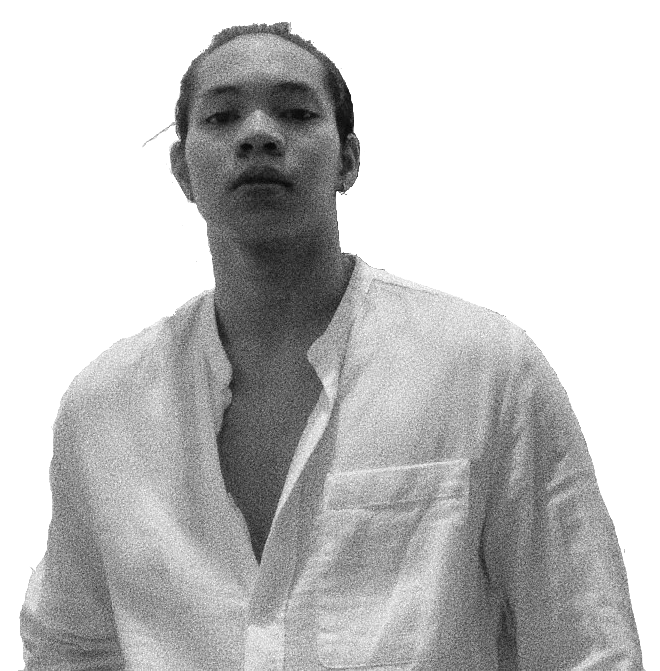
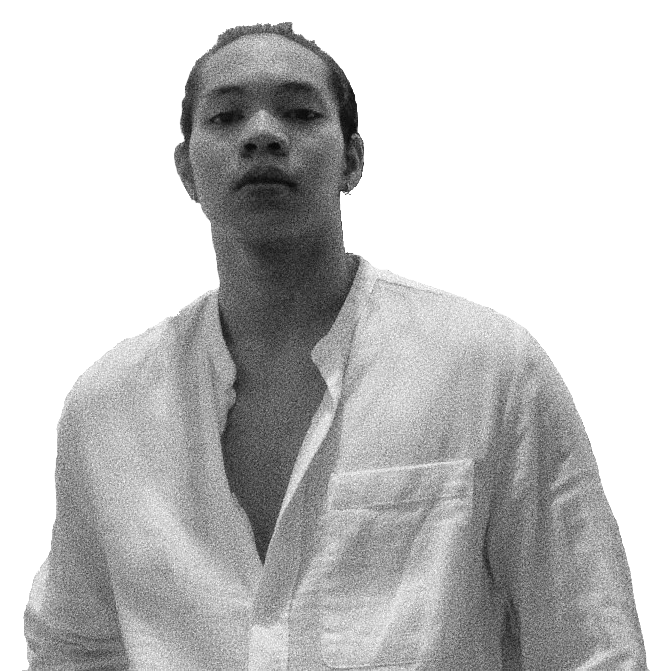
Hero image fix

Changed region(s): [[0.0303, 0.0298, 1.0, 1.0]]

diff --git a/src/components/icons/IconSvelte.svelte b/src/components/icons/IconSvelte.svelte
@@ -1,0 +1,10 @@
+<svg
+	xmlns="http://www.w3.org/2000/svg"
+	stroke-width="2"
+	viewBox="0 0 48 48"
+	fill="currentColor"
+	stroke="currentColor"
+	stroke-linecap="round"
+	stroke-linejoin="round"
+	><path fill="#ef4823" d="M40.311,8.7C36.352,2.998,27.6,0.647,21.934,4.243l-9.987,6.392	c-2.724,1.707-4.612,4.503-5.157,7.663c-0.472,2.651,0.991,4.848,2.262,7.208c-0.872,1.307-2.516,3.287-2.77,4.813	c-0.581,3.232,0.182,6.573,2.07,9.225c3.995,5.702,11.914,7.741,17.579,4.146l9.913-6.724c2.724-1.707,4.612-4.503,5.157-7.663	c0.472-2.651,0.073-5.375-1.198-7.736c0.872-1.307,1.453-2.76,1.707-4.285C42.127,14.012,42.235,11.351,40.311,8.7"/><path fill="#010101" d="M19.64,45.946c-1.064,0-2.149-0.13-3.234-0.393c-3.425-0.831-6.42-2.871-8.433-5.744	c-1.962-2.754-2.745-6.244-2.147-9.572c0.216-1.297,1.316-2.837,2.201-4.074c0.172-0.24,0.336-0.47,0.484-0.684	c-0.101-0.185-0.203-0.37-0.304-0.553c-1.14-2.065-2.319-4.2-1.872-6.709c0.566-3.284,2.523-6.192,5.367-7.974l9.984-6.39	c5.748-3.648,14.804-1.465,19.003,4.579c1.957,2.698,1.94,5.418,1.277,8.93c-0.251,1.501-0.798,2.922-1.627,4.23	c1.198,2.357,1.596,5.112,1.119,7.792c-0.566,3.281-2.519,6.187-5.36,7.969l-9.906,6.72c-0.004,0.003-0.008,0.005-0.012,0.008	C24.236,45.314,21.987,45.946,19.64,45.946z M28.218,2.986c-2.167,0-4.269,0.527-6.034,1.647l-9.986,6.391	c-2.625,1.645-4.429,4.324-4.951,7.352c-0.39,2.189,0.66,4.09,1.77,6.102c0.148,0.268,0.297,0.537,0.443,0.809	c0.081,0.151,0.072,0.334-0.022,0.476c-0.192,0.288-0.418,0.604-0.657,0.939c-0.829,1.159-1.86,2.602-2.042,3.693	c-0.556,3.09,0.17,6.325,1.991,8.88c3.953,5.642,11.553,7.446,16.948,4.027l9.907-6.72c0.005-0.003,0.009-0.006,0.014-0.009	c2.622-1.643,4.425-4.322,4.947-7.349c0.458-2.57,0.049-5.211-1.15-7.438c-0.081-0.151-0.072-0.334,0.022-0.476	c0.842-1.263,1.392-2.644,1.636-4.105c0.001-0.003,0.001-0.007,0.002-0.01c0.634-3.359,0.655-5.781-1.119-8.223	c-0.002-0.003-0.004-0.005-0.006-0.008C37.295,5.166,32.624,2.986,28.218,2.986z"/><path fill="#d6e5e5" d="M20.974,40.088c-3.232,0.835-6.61-0.436-8.498-3.16c-1.162-1.598-1.598-3.595-1.271-5.557	c0.073-0.327,0.145-0.617,0.218-0.944l0.256-0.938l0.508,0.363c1.198,0.872,2.432,1.882,3.848,2.318l0.363,0.109l-0.036,0.363	c-0.036,0.508,0.109,1.053,0.399,1.489c0.581,0.835,2.086,1.3,3.067,1.046c0.218-0.073,0.436-0.145,0.617-0.254l10.19-6.182	c0.508-0.327,0.567-1.206,0.676-1.787c0.109-0.581-0.036-1.198-0.363-1.671c-0.581-0.835-1.598-1.198-2.579-0.944	c-0.218,0.073-0.895,0.313-1.077,0.422l-3.813,2.433c-0.617,0.399-1.307,0.69-2.034,0.872c-3.232,0.835-6.61-0.436-8.498-3.16	c-1.126-1.598-1.531-4.31-1.168-6.271c0.327-1.889,1.489-3.595,3.123-4.612l9.92-5.641c0.617-0.399,1.307-0.69,2.034-0.908	c3.232-0.835,6.61,0.436,8.498,3.16c1.162,1.598,1.598,3.595,1.271,5.557c-0.073,0.327-0.145,0.617-0.254,0.944l-0.034,0.107	c-0.073,0.234-0.353,0.327-0.552,0.185l-0.105-0.075c-1.198-0.872-2.506-1.525-3.922-1.961l-0.363-0.109l0.036-0.363	c0.036-0.508-0.109-1.053-0.399-1.489c-0.581-0.835-1.688-1.122-2.668-0.868c-0.218,0.073-0.436,0.145-0.617,0.254l-9.861,6.279	c-0.508,0.327-0.835,0.799-0.944,1.38c-0.109,0.581,0.036,1.198,0.363,1.671c0.581,0.835,1.598,1.198,2.579,0.944	c0.218-0.073,0.436-0.145,0.617-0.254l3.813-2.433c0.617-0.399,1.307-0.69,2.034-0.908c3.232-0.835,6.986-0.553,8.875,2.171	c1.162,1.598,1.929,4.257,1.602,6.218c-0.327,1.889-1.489,3.595-3.123,4.612L23.007,39.18C22.39,39.58,21.7,39.87,20.974,40.088"/><path fill="#010101" d="M18.981,40.806c-0.991,0-1.977-0.177-2.921-0.529c-1.609-0.6-2.979-1.665-3.961-3.08	c-1.224-1.685-1.704-3.781-1.35-5.901c0.001-0.008,0.003-0.016,0.005-0.024c0.037-0.165,0.073-0.322,0.11-0.478	c0.036-0.152,0.072-0.305,0.108-0.467c0.002-0.007,0.003-0.014,0.005-0.021l0.256-0.938c0.04-0.146,0.149-0.263,0.291-0.314	c0.143-0.051,0.301-0.029,0.424,0.059l0.508,0.363c0.17,0.123,0.336,0.247,0.505,0.371c1.015,0.752,2.065,1.529,3.21,1.881	l0.36,0.108c0.212,0.064,0.35,0.269,0.328,0.489l-0.036,0.356c-0.027,0.403,0.093,0.848,0.323,1.193	c0.439,0.63,1.724,1.064,2.551,0.858c0.194-0.065,0.376-0.126,0.51-0.207l4.798-3.358l5.384-2.818	c0.253-0.168,0.348-0.754,0.417-1.182c0.017-0.105,0.033-0.205,0.051-0.298c0.084-0.446-0.024-0.94-0.289-1.322	c-0.462-0.664-1.272-0.963-2.067-0.763c-0.344,0.115-0.855,0.309-0.965,0.372l-3.807,2.429c-0.647,0.419-1.378,0.732-2.17,0.93	c-1.672,0.432-3.412,0.342-5.027-0.261c-1.611-0.601-2.602-1.841-3.584-3.258c-1.282-1.82-1.976-4.535-1.622-6.446	c0.345-1.995,1.592-3.837,3.334-4.921c0.005-0.003,0.01-0.006,0.016-0.009l9.909-5.635c0.612-0.394,1.313-0.707,2.141-0.955	c0.006-0.002,0.011-0.003,0.017-0.005c1.675-0.433,3.415-0.343,5.031,0.26c1.609,0.6,2.979,1.665,3.961,3.08	c1.224,1.685,1.704,3.781,1.35,5.901c-0.001,0.008-0.003,0.016-0.005,0.024c-0.066,0.295-0.144,0.62-0.267,0.99l-0.031,0.099	c-0.078,0.251-0.274,0.451-0.523,0.534c-0.249,0.084-0.526,0.042-0.74-0.11l-0.105-0.075c-1.155-0.84-2.428-1.477-3.789-1.895	l-0.36-0.108c-0.212-0.064-0.35-0.269-0.328-0.489l0.036-0.356c0.028-0.409-0.09-0.843-0.323-1.193	c-0.432-0.621-1.298-0.897-2.152-0.681c-0.192,0.064-0.372,0.125-0.505,0.204l-5.253,3.042l-4.603,3.233	c-0.404,0.26-0.653,0.622-0.738,1.075c-0.084,0.446,0.024,0.94,0.289,1.322c0.462,0.664,1.273,0.964,2.067,0.763	c0.191-0.064,0.371-0.125,0.505-0.204l3.703-2.077c0.612-0.396,1.316-0.711,2.15-0.961c0.006-0.002-0.006,0.001,0,0	c1.814-0.469,3.61-0.562,5.162-0.26c1.824,0.354,3.284,1.256,4.223,2.606c1.308,1.801,2.119,4.207,1.786,6.21	c-0.347,2.004-1.594,3.845-3.335,4.929l-10.694,6.683c-0.608,0.394-1.312,0.709-2.146,0.959c-0.006,0.002-0.011,0.003-0.017,0.005	C20.394,40.716,19.686,40.806,18.981,40.806z M11.66,31.46c-0.309,1.871,0.114,3.716,1.191,5.196	c0.002,0.003,0.004,0.006,0.006,0.008c1.772,2.556,4.983,3.751,7.993,2.977c0.745-0.224,1.369-0.503,1.907-0.851l10.701-6.687	c1.522-0.947,2.611-2.554,2.913-4.299c0.292-1.75-0.466-3.922-1.625-5.515c-0.002-0.003-0.004-0.006-0.006-0.009	c-2.26-3.26-6.966-2.35-8.37-1.988c-0.745,0.224-1.368,0.502-1.907,0.851l-3.711,2.083c-0.004,0.002-0.007,0.005-0.011,0.007	c-0.225,0.135-0.471,0.217-0.709,0.296c-0.01,0.003-0.02,0.006-0.03,0.009c-1.178,0.305-2.385-0.137-3.075-1.128	c-0.409-0.59-0.568-1.326-0.438-2.02c0.132-0.703,0.529-1.286,1.149-1.684l4.613-3.24l5.25-3.04c0.003-0.002,0.007-0.004,0.01-0.006	c0.225-0.135,0.471-0.217,0.709-0.296c0.01-0.003,0.021-0.006,0.031-0.009c1.233-0.32,2.504,0.103,3.164,1.052	c0.351,0.526,0.524,1.173,0.481,1.783c1.455,0.448,2.815,1.127,4.045,2.019c0.1-0.304,0.165-0.567,0.232-0.866	c0.309-1.871-0.114-3.716-1.191-5.196c-0.002-0.003-0.004-0.006-0.006-0.009c-1.772-2.556-4.983-3.751-7.994-2.977	c-0.745,0.224-1.369,0.502-1.907,0.851c-0.007,0.005-0.015,0.009-0.023,0.014l-9.912,5.636c-1.517,0.947-2.603,2.552-2.904,4.294	c-0.366,1.979,0.482,4.351,1.47,5.752c1.776,2.561,4.611,3.93,7.624,3.152c0.697-0.174,1.334-0.447,1.898-0.812l3.816-2.435	c0.004-0.002,0.007-0.005,0.011-0.007c0.273-0.164,1.16-0.461,1.169-0.464c0.01-0.003,0.02-0.006,0.03-0.009	c1.178-0.305,2.385,0.137,3.075,1.128c0.409,0.59,0.568,1.326,0.438,2.02c-0.016,0.086-0.031,0.179-0.047,0.275	c-0.103,0.636-0.23,1.427-0.834,1.816c-0.003,0.002-0.007,0.004-0.01,0.006l-5.382,2.96l-4.809,3.222	c-0.227,0.136-0.472,0.218-0.71,0.297c-0.01,0.003-0.021,0.007-0.032,0.009c-1.201,0.311-2.899-0.275-3.563-1.229	c-0.351-0.526-0.524-1.173-0.481-1.783c-1.299-0.4-2.413-1.225-3.49-2.022c-0.154-0.114-0.307-0.227-0.46-0.339l-0.078,0.286	c-0.036,0.161-0.072,0.314-0.108,0.467C11.729,31.155,11.695,31.303,11.66,31.46z"/></svg
+>

diff --git a/src/components/footer/Footer.svelte b/src/components/footer/Footer.svelte
@@ -1,14 +1,83 @@
 <script lang="ts">
+	import IconFb from './../icons/IconFb.svelte';
+	import Link from '$components/common/Link.svelte';
 	import Text from '$components/common/Text.svelte';
 	import Container from '$components/containers/Container.svelte';
+	import IconGithub from '$components/icons/IconGithub.svelte';
+	import IconTwitter from '$components/icons/IconTwitter.svelte';
+	import NavDesktopLink from '$components/Nav/NavDesktopLink.svelte';
+	import FoorterLinksMain from './FoorterLinksMain.svelte';
+	import FooterLinks from './FooterLinks.svelte';
 	import FooterMain from './FooterMain.svelte';
+	import FooterSocials from './FooterSocials.svelte';
+	import IconIg from '$components/icons/IconIg.svelte';
+	import IconLinkedIn from '$components/icons/IconLinkedIn.svelte';
+
+	let icon = '/src/images/KT-icon.png';
+
+  let now = new Date();
+
+  let year = now.getFullYear();
 </script>
 
 <FooterMain>
 	<Container wide gutters>
-		<div class="grid grid-cols-12 py-20">
-			<div class="col-span-8"><Text class="text-3xl">Let's Make something amazing</Text></div>
-			<div class="col-span-4"><Text class="text-3xl">Let's Make something amazing</Text></div>
+		<div class="grid grid-cols-12 py-32">
+			<div class="col-span-12 lg:col-span-6 3xl:pr-20">
+				<Text class="text-3xl">Let's Make something amazing together.</Text>
+				<Text class="text-3xl pt-12"
+					>Start by <Link href="mailto:kurtrendel@gmail.com" label="saying hi" largeHeight /></Text
+				>
+			</div>
+			<div class="col-span-12 lg:col-span-6 lg:pl-20 3xl:pl-40 pt-20 lg:pt-0">
+				<Text class="text-xs text-mute-text font-semibold">Information</Text>
+				<Text class="pt-7 text-mute-text font-semibold text-base"
+					>14-11 Chester St, LV, Pampanga, PH</Text
+				>
+				<div class="pt-3">
+					<a
+						href="mailto:kurtrendel@gmail.com"
+						class="font-mono text-2xl transition-all duration-300 hover:text-primary"
+						>hello@kurt.io</a
+					>
+				</div>
+				<FoorterLinksMain>
+					<FooterLinks><NavDesktopLink footer label="About" href="#about" /></FooterLinks>
+					<FooterLinks><NavDesktopLink footer label="Experience" href="#jobs" /></FooterLinks>
+					<FooterLinks><NavDesktopLink footer label="Work" href="#projects" /></FooterLinks>
+					<FooterLinks><NavDesktopLink footer label="Contact" href="#contact" /></FooterLinks>
+				</FoorterLinksMain>
+			</div>
+		</div>
+		<div class="flex flex-col-reverse lg:grid lg:grid-cols-12 pb-24">
+			<div class="col-span-12 lg:col-span-6 3xl:pr-20 pt-20 lg:pt-0">
+				<div class="flex">
+					<a href="/" class="flex">
+						<div class="w-10">
+							<img src={icon} alt="" />
+						</div>
+						<div>
+							<h5
+								class="text-base mt-1 font-semibold opacity-100 transition-all duration-300 delay-300 ease-in-out "
+							>
+								urt <span class="text-[#B2B2B3] font-normal">Tegerero</span>
+							</h5>
+						</div></a
+					>
+          <div class="pl-5 flex items-center">
+            <Text class="text-mute-text text-sm font-bold flex items-center"><span class="pr-2">&copy;</span> {year}. All rights Reserved</Text>
+          </div>
+				</div>
+			</div>
+			<div class="col-span-12 lg:col-span-6 lg:pl-20 3xl:pl-40">
+				<div class="flex">
+					<FooterSocials href=""><IconTwitter /></FooterSocials><FooterSocials href=""
+						><IconGithub /></FooterSocials
+					><FooterSocials href=""><IconFb /></FooterSocials><FooterSocials href=""
+						><IconIg /></FooterSocials
+					><FooterSocials href=""><IconLinkedIn /></FooterSocials>
+				</div>
+			</div>
 		</div>
 	</Container>
 </FooterMain>

diff --git a/src/components/hero/HeroImage.svelte b/src/components/hero/HeroImage.svelte
@@ -1,26 +1,36 @@
 <script lang="ts">
-  export let img;
-  export let desktop: boolean = false;
+	import IconSvelte from '$components/icons/IconSvelte.svelte';
+
+	export let img;
+	export let desktop: boolean = false;
 </script>
 
-<div class="right-0 lg:pt-80 lg:hidden" class:image-container-desktop={desktop}>
-	<div class="" class:image-bg-desktop={desktop}>
-		<img src={img} alt="" class="w-full" class:image-desktop={desktop}/>
+<div class="right-0 lg:pt-80 lg:hidden z-0" class:image-container-desktop={desktop}>
+	<div class="relative">
+		<div class="" class:image-bg-desktop={desktop}>
+			<img src={img} alt="" class="w-full" class:image-desktop={desktop} />
+		</div>
+		<div class="absolute top-96 left-[-2] p-7 bg-darker-bg rounded-full z-50">
+			<div class="w-14 text-[#ef4823]"><IconSvelte /></div>
+		</div>
 	</div>
 </div>
 
 <style lang="postcss">
-  .image-container-desktop {
-    @apply pl-40 3xl:pl-96 right-40 hidden lg:block;
-  }
-
-	.image-bg-desktop {
-		@apply  relative cursor-pointer;
-		@apply after:content-[''] after:border-[2px] after:border-dark-bg after:absolute after:left-16 after:top-16 after:w-full after:h-full after:z-0;
-		@apply before:content-[''] before:border-[4px] before:border-primary before:absolute  before:w-full before:h-full before:z-20 before:transition-all before:duration-300 before:ease-in-out before:bg-[rgb(227,_174,_34,_.35)] hover:before:bg-transparent;
+	.image-container-desktop {
+		@apply absolute bottom-0 hidden lg:block;
 	}
 
-  .image-desktop {
-    @apply mb-[3rem] relative block mt-[-3rem] z-10;
-  }
+	.image-bg-desktop {
+		@apply relative cursor-pointer;
+		@apply after:content-[''] after:h-[40rem] after:w-[40rem] after:absolute after:bottom-20 after:right-12 after:rounded-full;
+	}
+
+	.image-bg-desktop::after {
+		background-image: linear-gradient(to right bottom, #28292d, #2d2e32);
+	}
+
+	.image-desktop {
+		@apply relative block z-10;
+	}
 </style>

diff --git a/src/components/Nav/NavDesktopLink.svelte b/src/components/Nav/NavDesktopLink.svelte
@@ -1,25 +1,29 @@
 <script lang="ts">
 	import { afterUpdate } from 'svelte';
-	export let label: string;
+	export let label: string = '';
 	export let number: string= '';
-	export let href: string;
+	export let href: string = '';
 	export let onClick = undefined;
 	export let active: boolean = undefined;
+	export let footer: boolean = undefined;
 </script>
 
 
-<a {href} class="link" class:active on:click={onClick}><span class="text-primary pr-1">{number}</span>{label}</a>
+<a {href} class="link" class:footer class:active on:click={onClick}><span class="text-primary pr-1">{number}</span>{label}</a>
 
 <style lang="postcss">
 	.link {
-		@apply text-light-text leading-7 text-[13px] font-mono mr-12 last:mr-0 relative block flex hover:text-primary;
+		@apply text-light-text leading-7 text-[13px] font-mono mr-12 last:mr-0 relative transition-all duration-300 hover:text-primary;
 		@apply before:content-['<'] before:absolute before:left-[0.4rem] before:opacity-0 before:transition-all before:duration-300 before:ease-out hover:before:left-[-0.8rem] hover:before:opacity-100;
 		@apply after:content-['>'] after:absolute after:right-[0.2rem] after:opacity-0 after:transition-all after:duration-300 after:ease-out hover:after:right-[-1rem] hover:after:opacity-100;
 	}
 
+	.footer{
+		@apply mr-0;
+	}
 	.active {
 		@apply text-primary;
-		@apply before:scale-x-[1] before:left-[-0.5rem] before:opacity-100;
-		@apply after:scale-x-[1] after:right-[-0.7rem] after:opacity-100;
+		@apply before:scale-x-[1] before:left-[-0.8rem] before:opacity-100;
+		@apply after:scale-x-[1] after:right-[-1rem] after:opacity-100;
 	}
 </style>

diff --git a/src/components/common/Link.svelte b/src/components/common/Link.svelte
@@ -3,15 +3,17 @@
 	export let label: string = '';
 	export let newTab: boolean = false;
 	export let large: boolean = false;
-
+	export let largeHeight: boolean = false;
 	let classes: string = '';
 	export { classes as class };
 </script>
 
 {#if newTab}
-	<a class="link {classes}" target="_blank" {href}> {label}</a>
+	<a class="link {classes}" class:large class:large-height={largeHeight} target="_blank" {href}>
+		{label}</a
+	>
 {:else}
-	<a class="link {classes}" class:large={large} {href}> {label}</a>
+	<a class="link {classes}" class:large class:large-height={largeHeight} {href}> {label}</a>
 {/if}
 
 <style lang="postcss">
@@ -23,5 +25,9 @@
 
 	.large {
 		@apply after:bottom-1.5 after:h-0.5;
+	}
+
+	.large-height {
+		@apply after:h-0.5;
 	}
 </style>

diff --git a/src/components/Nav/NavDesktop.svelte b/src/components/Nav/NavDesktop.svelte
@@ -15,10 +15,10 @@
 {#if $url.pathname !== '/' && $url.pathname === '/work'}
 	<NavDesktopMain>
 		<svelte:fragment slot="navLink">
-			<NavDesktopLink number="01." href="/#about" label="About" />
-			<NavDesktopLink number="02." href="/#jobs" label="Experience" />
-			<NavDesktopLink number="03." href="/#projects" label="Work" />
-			<NavDesktopLink number="04." href="/#contact" label="Contact" />
+			<NavDesktopLink href="/#about" label="About" />
+			<NavDesktopLink href="/#jobs" label="Experience" />
+			<NavDesktopLink href="/#projects" label="Work" />
+			<NavDesktopLink href="/#contact" label="Contact" />
 		</svelte:fragment>
 	</NavDesktopMain>
 {/if}

diff --git a/src/components/icons/IconLinkedIn.svelte b/src/components/icons/IconLinkedIn.svelte
@@ -1,0 +1,10 @@
+<svg
+	xmlns="http://www.w3.org/2000/svg"
+	stroke-width="2"
+	viewBox="0 0 30 30"
+	fill="currentColor"
+	stroke="currentColor"
+	stroke-linecap="round"
+	stroke-linejoin="round"
+	><path d="M9,25H4V10h5V25z M6.501,8C5.118,8,4,6.879,4,5.499S5.12,3,6.501,3C7.879,3,9,4.121,9,5.499C9,6.879,7.879,8,6.501,8z M27,25h-4.807v-7.3c0-1.741-0.033-3.98-2.499-3.98c-2.503,0-2.888,1.896-2.888,3.854V25H12V9.989h4.614v2.051h0.065 c0.642-1.18,2.211-2.424,4.551-2.424c4.87,0,5.77,3.109,5.77,7.151C27,16.767,27,25,27,25z"/></svg
+>

diff --git a/src/components/icons/IconFb.svelte b/src/components/icons/IconFb.svelte
@@ -2,11 +2,9 @@
 	xmlns="http://www.w3.org/2000/svg"
 	stroke-width="2"
 	viewBox="0 0 24 24"
-	fill="none"
+	fill="currentColor"
 	stroke="currentColor"
 	stroke-linecap="round"
 	stroke-linejoin="round"
-	><path d="M21 8v8a5 5 0 01-5 5H8a5 5 0 01-5-5V8a5 5 0 015-5h8a5 5 0 015 5z" /><path
-		d="M11 21v-9c0-2.188.5-4 4-4M9 13h6"
-	/></svg
+	><path d="M17.525,9H14V7c0-1.032,0.084-1.682,1.563-1.682h1.868v-3.18C16.522,2.044,15.608,1.998,14.693,2 C11.98,2,10,3.657,10,6.699V9H7v4l3-0.001V22h4v-9.003l3.066-0.001L17.525,9z"/></svg
 >

diff --git a/src/components/hero/Hero.svelte b/src/components/hero/Hero.svelte
@@ -11,11 +11,11 @@ import Text from '$components/common/Text.svelte';
 	import HeroText from './HeroText.svelte';
 	import HeroTitle from './HeroTitle.svelte';
 	// import imgPlinth from '$src/images/hero/';
-	let src = '/src/images/hero/krt2.png';
+	let src = '/src/images/hero/krt.png';
 </script>
 
 <div class="grid lg:grid-cols-2">
-	<div class="z-4">
+	<div class="z-50">
 		<div class="3xl:pl-32">
 			<Spacer size="lg" />
 			<Spacer size="lg" />

diff --git a/src/routes/+page.svelte b/src/routes/+page.svelte
@@ -55,7 +55,7 @@
 		}
 	}
 
-	let src = '/src/images/hero/krt2.png';
+	let src = '/src/images/hero/krt.png';
 </script>
 
 <svelte:window on:scroll={scroll} />
@@ -94,7 +94,7 @@
 <!-- <slot/> -->
 
 <Container wide gutters bind:element={elements[0]}>
-	<div class="py-[5rem] pb-20 lg:mt-[-6.25rem]">
+	<div class="py-[5rem] pb-20 lg:mt-[-6.25rem] relative">
 		<Hero />
 	</div>
 </Container>

diff --git a/src/components/socials/Socials.svelte b/src/components/socials/Socials.svelte
@@ -11,4 +11,5 @@ import SocialsMain from "./SocialsMain.svelte";
   <SocialLinks href="https://www.facebook.com/mr.ktegerero/"><IconFb/></SocialLinks>
   <SocialLinks href="https://twitter.com/mr_ktegerero"><IconTwitter/></SocialLinks>
   <SocialLinks href="https://www.instagram.com/mr_ktegerero/"><IconIg/></SocialLinks>
+  
 </SocialsMain>

diff --git a/src/components/Nav/NavDesktopMain.svelte b/src/components/Nav/NavDesktopMain.svelte
@@ -59,7 +59,7 @@
 						class="text-base mt-1  font-semibold opacity-100 transition-all duration-300 delay-300 ease-in-out "
 						class:hide-text={y >= 1}
 					>
-						urt Tegerero
+						urt <span class="text-[#B2B2B3] font-normal">Tegerero</span>
 					</h5>
 				</div></a
 			>
